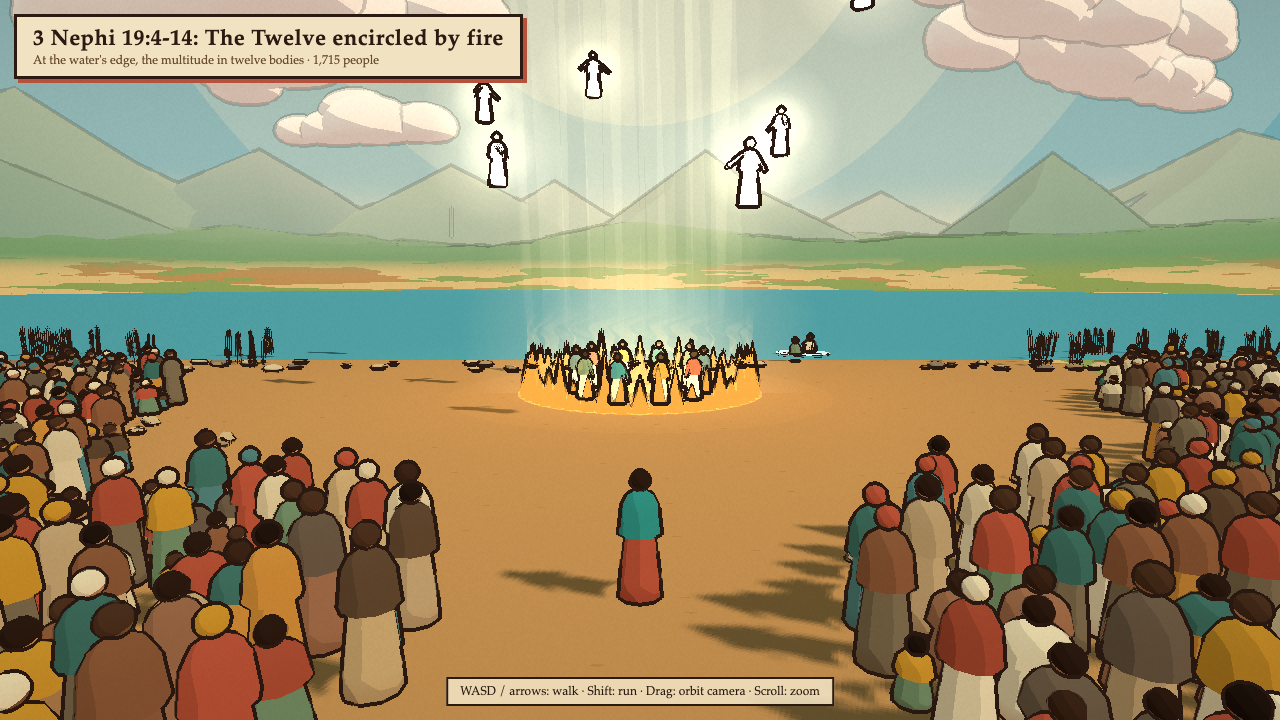
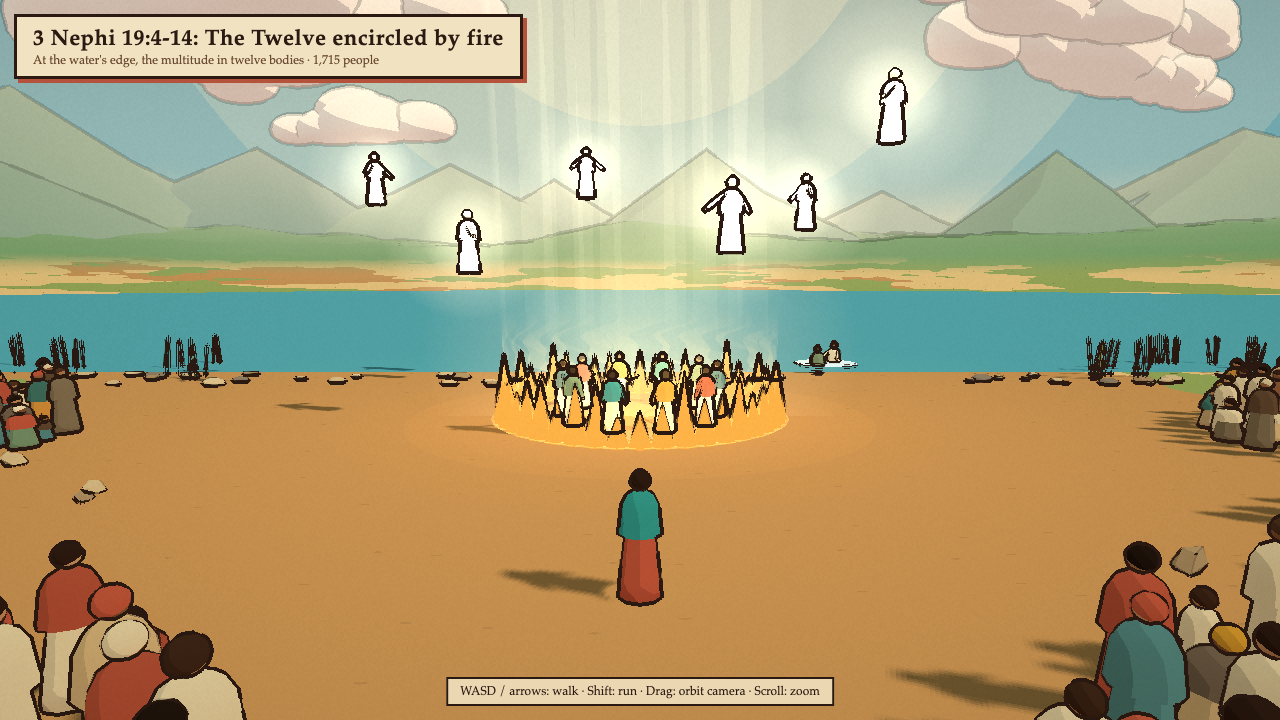
feat: polish toon scenes bom-43 to bom-49

diff --git a/styles/toon/scenes/bom-48.js b/styles/toon/scenes/bom-48.js
@@ -6,7 +6,6 @@ import { Batch, ball, box, campfire, cyl, fence, glow, lamp, makeRng, person, ro
 
 const SLAB = [0, -6];
 const KNEEL = [2.2, -4.4];
-const CLOUD_Y = 13;
 const STEP = 1.6;
 
 function stones(ctx) {
@@ -27,14 +26,51 @@ function stones(ctx) {
   return list;
 }
 
+const TILT = new THREE.Euler(-0.25, 0, 0.75);
+const ARM_DIR = new THREE.Vector3(0, 1, 0).applyEuler(TILT);
+const ARM = 2.4;
+const HAND = 1.35;
+
+// The Lord's hand, modelled with the fingertip at the origin and the arm rising along +y into the cloud.
 function finger(ctx) {
-  const geo = new THREE.CapsuleGeometry(0.085, 1.1, 4, 10);
-  geo.translate(0, 0.64, 0);
-  const mesh = new THREE.Mesh(geo, new THREE.MeshBasicMaterial({ color: '#fffaf0', transparent: true, opacity: 0.95, fog: false }));
-  mesh.layers.set(FX_LAYER);
-  ctx.scene.add(mesh);
-  const halo = glow(ctx, [0, 0, 0], 2.2, '#fff3d0', { opacity: 0.9, pulse: 0 });
-  return { mesh, halo };
+  const skin = ctx.kit.basic('#fff6e6');
+  const sleeve = ctx.kit.basic('#fffdf6');
+  const g = new THREE.Group();
+  const add = (geo, mat, pos, rot = [0, 0, 0]) => {
+    const m = new THREE.Mesh(geo, mat);
+    m.position.set(...pos);
+    m.rotation.set(...rot);
+    g.add(m);
+  };
+  const tip = new THREE.CapsuleGeometry(0.045, 0.36, 4, 10);
+  add(tip, skin, [-0.085, 0.23, 0]);
+  add(new THREE.BoxGeometry(0.27, 0.3, 0.11), skin, [0, 0.58, 0]);
+  for (let i = 0; i < 3; i++) add(new THREE.CapsuleGeometry(0.045, 0.1, 4, 8), skin, [-0.01 + i * 0.075, 0.4, 0.05], [0.9, 0, 0]);
+  add(new THREE.CapsuleGeometry(0.045, 0.16, 4, 8), skin, [0.15, 0.5, 0.04], [0.3, 0, -0.5]);
+  add(new THREE.CylinderGeometry(0.1, 0.09, 1.0, 10), skin, [0, 1.15, 0]);
+  add(new THREE.CylinderGeometry(0.2, 0.15, ARM - 1.4, 10), sleeve, [0, 1.4 + (ARM - 1.4) / 2, 0]);
+  g.rotation.copy(TILT);
+  g.scale.setScalar(HAND);
+  ctx.scene.add(g);
+  const halo = glow(ctx, [0, 0, 0], 1.6, '#fff3d0', { opacity: 0.7, pulse: 0 });
+  return { mesh: g, halo };
+}
+
+// A low bright cloud the arm reaches out of. It follows the hand along the row of stones.
+function brightCloud(ctx) {
+  const group = new THREE.Group();
+  const rng = makeRng(7);
+  const mats = [ctx.kit.toon('#fffaf0', { emissive: '#a89a80' }), ctx.kit.toon('#fff1d6', { emissive: '#a08a68' })];
+  for (let i = 0; i < 16; i++) {
+    const x = -2.4 + (i / 15) * 4.8 + (rng() - 0.5) * 0.5;
+    const r = 0.5 + rng() * 0.5;
+    const m = new THREE.Mesh(new THREE.SphereGeometry(r, 14, 10), mats[i % 2]);
+    m.position.set(x, (rng() - 0.3) * 0.7, (rng() - 0.5) * 1.2);
+    group.add(m);
+  }
+  ctx.scene.add(group);
+  const halo = glow(ctx, [0, 0, 0], 9, '#fff1c8', { opacity: 0.7, pulse: 0 });
+  return { group, halo };
 }
 
 function custom(ctx) {
@@ -63,8 +99,7 @@ function custom(ctx) {
 
   const stoneList = stones(ctx);
   const f = finger(ctx);
-  const cloudPos = new THREE.Vector3(SLAB[0], ctx.groundHeight(...SLAB) + CLOUD_Y, SLAB[1] - 2);
-  glow(ctx, [cloudPos.x, cloudPos.y, cloudPos.z], 22, '#fff1c8', { opacity: 0.85, pulse: 0.03 });
+  const cloud = brightCloud(ctx);
   lamp(ctx, [SLAB[0], sy + 4, SLAB[1]], '#fff0c8', 10, 18);
 
   ctx.onFrame((t) => {
@@ -76,10 +111,13 @@ function custom(ctx) {
       g.scale.setScalar(lit ? 1.1 + Math.sin(t * 2 + i) * 0.1 : 0.01);
     });
     const target = stoneList[Math.min(n, 15)].s.position;
-    const reach = n < 16 ? Math.sin(Math.min(1, phase * 1.4) * Math.PI) : 0;
+    const reach = n < 16 ? Math.min(1, Math.min(phase, 1 - phase) * 4) : 0;
     f.mesh.visible = f.halo.visible = n < 16;
-    f.mesh.position.set(target.x, target.y + 0.12 + (1 - reach) * 0.9, target.z);
-    f.halo.position.set(target.x, target.y + 0.7 + (1 - reach) * 0.9, target.z);
+    f.mesh.position.set(target.x, target.y + 0.1, target.z).addScaledVector(ARM_DIR, (1 - reach) * 0.8);
+    f.halo.position.copy(target);
+    f.halo.position.y += 0.15;
+    cloud.group.position.copy(f.mesh.position).addScaledVector(ARM_DIR, ARM * HAND - 0.1);
+    cloud.halo.position.copy(cloud.group.position);
   });
 
   person(ctx, { robe: '#8c5a3c', mantle: '#c8912e', skin: '#a8724a', hair: '#4a3020', sash: '#5e4632', arms: [0.2, 0.7] }, KNEEL, SLAB, { pose: 'kneel', clear: 1, lean: -0.15 });
@@ -114,17 +152,16 @@ export default {
       { count: 140, distance: [110, 620], height: [-75, -48], size: [26, 50], color: '#ffe8d8', shade: '#6a5a8a', drift: 0.0015 },
       { count: 40, distance: [70, 140], height: [-80, -62], size: [18, 30], color: '#ffe8d8', shade: '#6a5a8a', drift: 0.0015 },
       { count: 14, distance: [300, 700], height: [90, 180], size: [40, 80], color: '#f2c0a0', shade: '#3a3260' },
-      { count: 7, center: [0, -8], distance: [0, 3], height: [CLOUD_Y, CLOUD_Y + 2], size: [3, 5], color: '#fffaf0', shade: '#f0d8a0', drift: 0 },
     ],
   },
 
   light: {
-    beams: [{ from: [0, CLOUD_Y + 2, -8], to: { at: SLAB, lift: 0.8 }, width: [4, 1.6], color: '#fff2c9', intensity: 0.22, layers: 2, stripes: 14, fadeLow: 0.1 }],
+    beams: [],
   },
 
   player: {
-    start: [-0.9, 0.4],
-    lookAt: SLAB,
+    start: [1.0, -1.8],
+    lookAt: [-0.5, -6.4],
     colors: { robe: '#6f8a6a', mantle: '#5e4632', skin: '#a8724a', hair: '#2b1a12', sash: '#c8912e' },
   },
 };

diff --git a/styles/toon/scenes/bom-49.js b/styles/toon/scenes/bom-49.js
@@ -1,10 +1,11 @@
 // Ether 2:16-25, 6:2-12: the eight tight barges driven by the wind across the great deep, at times buried under the waves.
-// x is east, z is south. The player stands on a rock in the sea, the barges pass to the north.
+// x is east, z is south. The player rides the deck of one barge, the others pass to the north.
 import * as THREE from 'three';
 import { FX_LAYER } from '../engine/renderer.js';
-import { Batch, bargeGeometry, fence, glow, makeRng, rocks, toonStyle, water } from './lib/bom-43-kit.js';
+import { Batch, bargeGeometry, box, glow, makeRng, person, toonStyle, water } from './lib/bom-43-kit.js';
 
-const SEA_Y = -1.2;
+const SEA_Y = 3;
+const DECK = { center: [0, 2], hx: 1.7, hz: 5, top: 3.75 };
 const WAVES = { amp: 2.1, length: 26, speed: 1.1, dir: [1, -0.35], segments: 110 };
 
 const BARGES = [
@@ -47,6 +48,62 @@ function barges(ctx, sea) {
   });
 }
 
+// The barge the player rides. Its deck collider heaves with the hull so the player rises and falls with it.
+function ownBarge(ctx) {
+  const g = new THREE.Group();
+  const { hull, trim } = bargeGeometry({ length: 20, width: 7, height: 5 });
+  const h = new THREE.Mesh(hull, ctx.kit.toon('#8a6040'));
+  const tr = new THREE.Mesh(trim, ctx.kit.toon('#3a2418'));
+  h.rotation.y = tr.rotation.y = Math.PI / 2;
+  h.castShadow = tr.castShadow = h.receiveShadow = true;
+  g.add(h, tr);
+
+  const wood = ctx.kit.toon('#9a7048');
+  const dark = ctx.kit.toon('#4a3020');
+  const part = (geo, mat) => {
+    const m = new THREE.Mesh(geo, mat);
+    m.castShadow = m.receiveShadow = true;
+    g.add(m);
+  };
+  const { hx, hz, top } = DECK;
+  part(box(hx * 2, 1.35, hz * 2, [0, top - 0.675, 0]), wood);
+  for (let i = -3; i <= 3; i++) part(box(0.04, 0.02, hz * 2, [i * hx / 3.5, top + 0.01, 0]), dark);
+  for (const sx of [-1, 1]) {
+    part(box(0.12, 0.1, hz * 2, [sx * (hx - 0.06), top + 0.9, 0]), dark);
+    for (let k = 0; k <= 6; k++) part(box(0.12, 0.9, 0.12, [sx * (hx - 0.06), top + 0.45, -hz + 0.06 + k * (hz * 2 - 0.12) / 6]), dark);
+  }
+  for (const sz of [-1, 1]) part(box(hx * 2, 0.1, 0.12, [0, top + 0.9, sz * (hz - 0.06)]), dark);
+  part(new THREE.CylinderGeometry(0.4, 0.4, 0.3, 10).translate(0, top + 0.15, hz - 1.2), dark);
+
+  const companion = person(ctx, { robe: '#7a5a3c', mantle: '#a84a3a', skin: '#a8724a', hair: '#3a2418', sash: '#c8912e', arms: [0.4, 0.9] }, [0.9, -2.3], [10, -60], { clear: 0 });
+  ctx.scene.remove(companion);
+  companion.position.set(0.9, top, -hz + 0.7);
+  g.add(companion);
+  ctx.scene.add(g);
+
+  const [cx, cz] = DECK.center;
+  const deck = { x: cx, z: cz, hx, hz, rot: 0, top: 0 };
+  const rails = [
+    { x: cx - hx, z: cz, hx: 0.12, hz, rot: 0 },
+    { x: cx + hx, z: cz, hx: 0.12, hz, rot: 0 },
+    { x: cx, z: cz - hz, hx, hz: 0.12, rot: 0 },
+    { x: cx, z: cz + hz, hx, hz: 0.12, rot: 0 },
+    { x: cx + 0.9, z: cz - hz + 0.7, hx: 0.3, hz: 0.3, rot: 0 },
+  ];
+  const place = (t) => {
+    const heave = Math.sin(t * 0.8) * 0.4;
+    const base = SEA_Y + 0.2 + heave;
+    g.position.set(cx, base, cz);
+    g.rotation.set(Math.sin(t * 0.8 + 1) * 0.03, 0, Math.sin(t * 0.55) * 0.035);
+    deck.top = base + top;
+    for (const r of rails) r.top = base + top + 1.4;
+  };
+  place(0);
+  ctx.addCollider(deck);
+  rails.forEach((r) => ctx.addCollider(r));
+  ctx.onFrame(place);
+}
+
 function rain(ctx, count = 700) {
   const rng = makeRng(49);
   const geo = new THREE.BoxGeometry(0.02, 1.4, 0.02);
@@ -87,15 +144,7 @@ function custom(ctx) {
   const b = new Batch(ctx);
   const sea = water(ctx, { center: [0, -60], size: [300, 240], y: SEA_Y, color: '#2f5f6a', shine: '#d8ece6', streaks: 160, waves: WAVES });
   water(ctx, { center: [0, 0], size: [2400, 2400], y: SEA_Y - 0.05, color: '#2a5560', streaks: 0 });
-  fence(ctx, [0, 0], 14.5, { count: 40 });
-
-  const crags = [];
-  for (let i = 0; i < 34; i++) {
-    const a = rng() * Math.PI * 2, r = 13 + rng() * 5;
-    if (Math.cos(a) < -0.6 && Math.abs(Math.sin(a)) < 0.5) continue;
-    crags.push([Math.sin(a) * r, Math.cos(a) * r, 1 + rng() * 2.2]);
-  }
-  rocks(ctx, crags, ['#4a4844', '#5a5652', '#3e3c3a']);
+  ownBarge(ctx);
   for (let i = 0; i < 10; i++) {
     const a = rng() * Math.PI * 2, r = 40 + rng() * 120;
     const x = Math.sin(a) * r, z = Math.cos(a) * r;
@@ -137,7 +186,7 @@ export default {
   },
 
   player: {
-    start: [0, 6],
+    start: [0, 4.6],
     lookAt: [0, -60],
     colors: { robe: '#5e4632', mantle: '#3e6e66', skin: '#a8724a', hair: '#2b1a12', sash: '#c8912e' },
   },

diff --git a/styles/toon/scenes/bom-46.js b/styles/toon/scenes/bom-46.js
@@ -5,7 +5,7 @@ import { Batch, GROUND, banner, between, dust, makeNoiseHill, makeRng, person, p
 
 const HILL = [-10, -150];
 const KNOLL = [-26, 4];
-const MORMON = [-23.5, 1.5];
+const MORMON = [-16.5, 4];
 const EAST = [120, -10];
 const WEST = [-80, -30];
 
@@ -17,8 +17,8 @@ const NEPHITES = {
   wraps: ['#c8a97a', '#8c5a3c', '#5e4632', '#b5523b'],
 };
 const LAMANITES = {
-  robes: ['#7a2e24', '#5a2a22', '#3a2a22', '#8c3a2a', '#6b3a2a', '#4a3a30', '#9a5030'],
-  mantles: ['#2b1a12', '#5a2a22', '#c8912e', '#3a2a22', '#7a2e24'],
+  robes: ['#b5523b', '#c8703a', '#9a5030', '#d08a50', '#a8402e', '#c89060', '#8c4a2e'],
+  mantles: ['#e6d8b8', '#c8912e', '#7a2e24', '#d9b070', '#5a2a22'],
   skins: ['#8a5a3b', '#9c6a45', '#a87650', '#b5825a', '#7a4e33', '#c08f66'],
   hair: ['#1f140e', '#2b1a12'],
   wraps: ['#c8912e', '#b5523b', '#e6d8b8', '#2b1a12'],
@@ -78,10 +78,10 @@ function custom(ctx) {
     banner(b, ctx, [r.center[0] - r.size[0] / 2 - 0.8, r.center[1]], { height: 6, color: pick(rng, ['#7a2e24', '#2b1a12', '#c8912e']), trim: '#e6d8b8' });
     if (i % 3 === 0) banner(b, ctx, [r.center[0] - r.size[0] / 2 - 0.5, r.center[1] - 5], { height: 5.4, color: '#5a2a22', trim: '#c8912e' });
   });
-  spears(ctx, rng, NEPHITE_RANKS, 28, '#5a3a22', 0.12);
-  spears(ctx, rng, LAMANITE_HOST, 24, '#3a2418', 0);
+  spears(ctx, rng, NEPHITE_RANKS, 7, '#5a3a22', 0.12);
+  spears(ctx, rng, LAMANITE_HOST, 6, '#3a2418', 0);
 
-  const knoll = makeNoiseHill(ctx, { center: KNOLL, radius: 18, height: 5.5, color: '#8a8050', seed: 7, flatTop: 0.25, walk: true });
+  const knoll = makeNoiseHill(ctx, { center: KNOLL, radius: 22, height: 8, color: '#8a8050', seed: 7, flatTop: 0.25, walk: true });
   const rise = knoll.heightAt(...MORMON) - 0.85;
   person(ctx, { robe: '#5e4632', mantle: '#b5523b', skin: '#a87650', hair: '#b9aea8', sash: '#c8912e', arms: [0.15, 0.2] }, [MORMON[0] - 0.5, MORMON[1]], EAST, { scale: 1.08, y: rise + 0.85, clear: 3.2 });
   person(ctx, { robe: '#7a6a52', mantle: '#2f8f8a', skin: '#9c6a45', hair: '#2b1a12', sash: '#c8912e' }, [MORMON[0] + 1, MORMON[1] - 0.6], EAST, { y: rise + 0.85, clear: 0 });
@@ -141,7 +141,7 @@ export default {
   },
 
   player: {
-    start: [-29, 7],
+    start: [-19.5, 0.5],
     lookAt: [22, -40],
     colors: { robe: '#7a6a52', mantle: '#8c5a3c', skin: '#a8724a', hair: '#2b1a12', sash: '#c8912e' },
   },

diff --git a/styles/toon/scenes/bom-47.js b/styles/toon/scenes/bom-47.js
@@ -81,8 +81,8 @@ function custom(ctx) {
   stars(ctx, { count: 1400, color: '#f2f0ff', size: 2.2, minY: 0.06 });
   disc(ctx, [-0.5, 0.3, -0.8], 30, '#f6f0d8', { halo: '#9ab0e0', haloSize: 3 });
   const gy = ctx.groundHeight(...BOX);
-  glow(ctx, [BOX[0], gy + 0.8, BOX[1]], 2.2, '#ffd27a', { opacity: 0.5 });
-  lamp(ctx, [BOX[0], gy + 1.5, BOX[1]], '#ffd890', 2.5, 6);
+  glow(ctx, [BOX[0], gy + 0.8, BOX[1]], 1.8, '#ffd27a', { opacity: 0.45 });
+  lamp(ctx, [BOX[0], gy + 1.5, BOX[1]], '#ffd890', 7, 9);
   b.flush();
 }
 
@@ -96,7 +96,7 @@ export default {
 
   sky: { zenith: '#0e1430', mid: '#222c52', horizon: '#4a4a70', ground: '#1e2236', glowColor: '#8a9ad0', glowDir: [-0.5, 0.35, -0.8] },
 
-  sun: { dir: [-0.5, 0.6, -0.8], color: '#b8c8f0', intensity: 1.6, hemi: { sky: '#5a6aa0', ground: '#2a2430', intensity: 0.9 }, shadowSize: 60 },
+  sun: { dir: [-0.5, 0.6, -0.8], color: '#c8d4f6', intensity: 2.2, hemi: { sky: '#6a7ab0', ground: '#3a3440', intensity: 1.25 }, shadowSize: 60 },
 
   ground: {
     size: 1200, segments: 240, flatRadius: 160, hillHeight: 30, undulation: 0.4,
@@ -117,8 +117,8 @@ export default {
   },
 
   player: {
-    start: [5, -8.5],
-    lookAt: [-1, -13.5],
-    colors: { robe: '#5e4632', mantle: '#7a6a52', skin: '#a8724a', hair: '#2b1a12', sash: '#8c5a3c' },
+    start: [-0.3, -9.5],
+    lookAt: [1.5, -16],
+    colors: { robe: '#6b5240', mantle: '#a8916a', skin: '#a8724a', hair: '#2b1a12', sash: '#8c5a3c' },
   },
 };

diff --git a/styles/toon/scenes/bom-44.js b/styles/toon/scenes/bom-44.js
@@ -67,7 +67,7 @@ function custom(ctx) {
   ctx.exclude({ kind: 'circle', x: RING[0], z: RING[1], r: RING_R + 1.2 });
 
   // Angels descending to minister.
-  const angels = [[-5, 7.5, -3], [5.5, 9, -6], [-2, 12, -9], [3, 6, 2.5], [-6.5, 10.5, -8], [7, 12.5, -1]];
+  const angels = [[-5, 4.6, -3], [5.5, 5.6, -6], [-2, 7.4, -9], [2.2, 4.6, 0.5], [-9.5, 6.6, -8], [6.5, 7.6, -1]];
   for (const [x, y, z] of angels) angel(ctx, [x, y, z], RING, { arms: [0.8, 0.45], halo: 5 });
   glow(ctx, [RING[0], 2, RING[1]], 14, '#ffe6a8', { opacity: 0.45 });
 
@@ -121,7 +121,7 @@ export default {
   },
 
   player: {
-    start: [0, 13],
+    start: [0, 8.5],
     lookAt: RING,
     colors: { robe: '#b5523b', mantle: '#2f8f8a', skin: '#a8724a', hair: '#2b1a12', sash: '#c8912e' },
   },

diff --git a/styles/toon/scenes/bom-43.js b/styles/toon/scenes/bom-43.js
@@ -61,7 +61,7 @@ function custom(ctx) {
     }
   });
 
-  glow(ctx, [CHRIST[0], ctx.groundHeight(...CHRIST) + 1.3, CHRIST[1]], 7, '#fff3d0', { opacity: 0.8 });
+  glow(ctx, [CHRIST[0], ctx.groundHeight(...CHRIST) + 1.3, CHRIST[1]], 4.5, '#fff3d0', { opacity: 0.55 });
 }
 
 export default {
@@ -143,7 +143,7 @@ export default {
   },
 
   player: {
-    start: [0, 17],
+    start: [0, 1],
     lookAt: CHRIST,
     colors: { robe: '#b5523b', mantle: '#2f8f8a', skin: '#a8724a', hair: '#2b1a12', sash: '#c8912e' },
   },

diff --git a/styles/toon/scenes/bom-45.js b/styles/toon/scenes/bom-45.js
@@ -181,8 +181,8 @@ export default {
   },
 
   player: {
-    start: [5, 2],
-    lookAt: [-5, -30],
+    start: [1, -2],
+    lookAt: [-6, -30],
     colors: { robe: '#efe3c2', mantle: '#2f8f8a', skin: '#a8724a', hair: '#2b1a12', sash: '#c8912e' },
   },
 };
